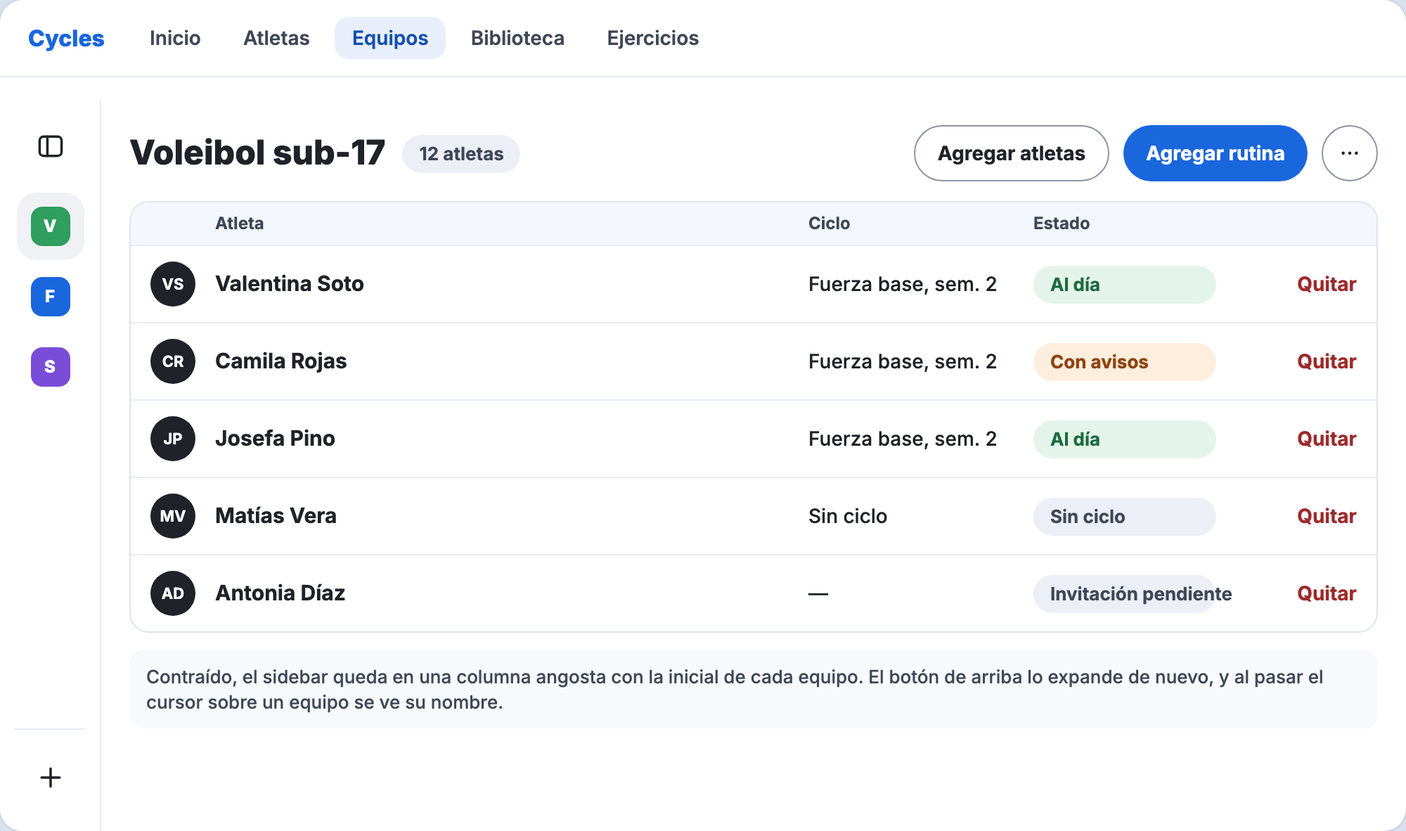
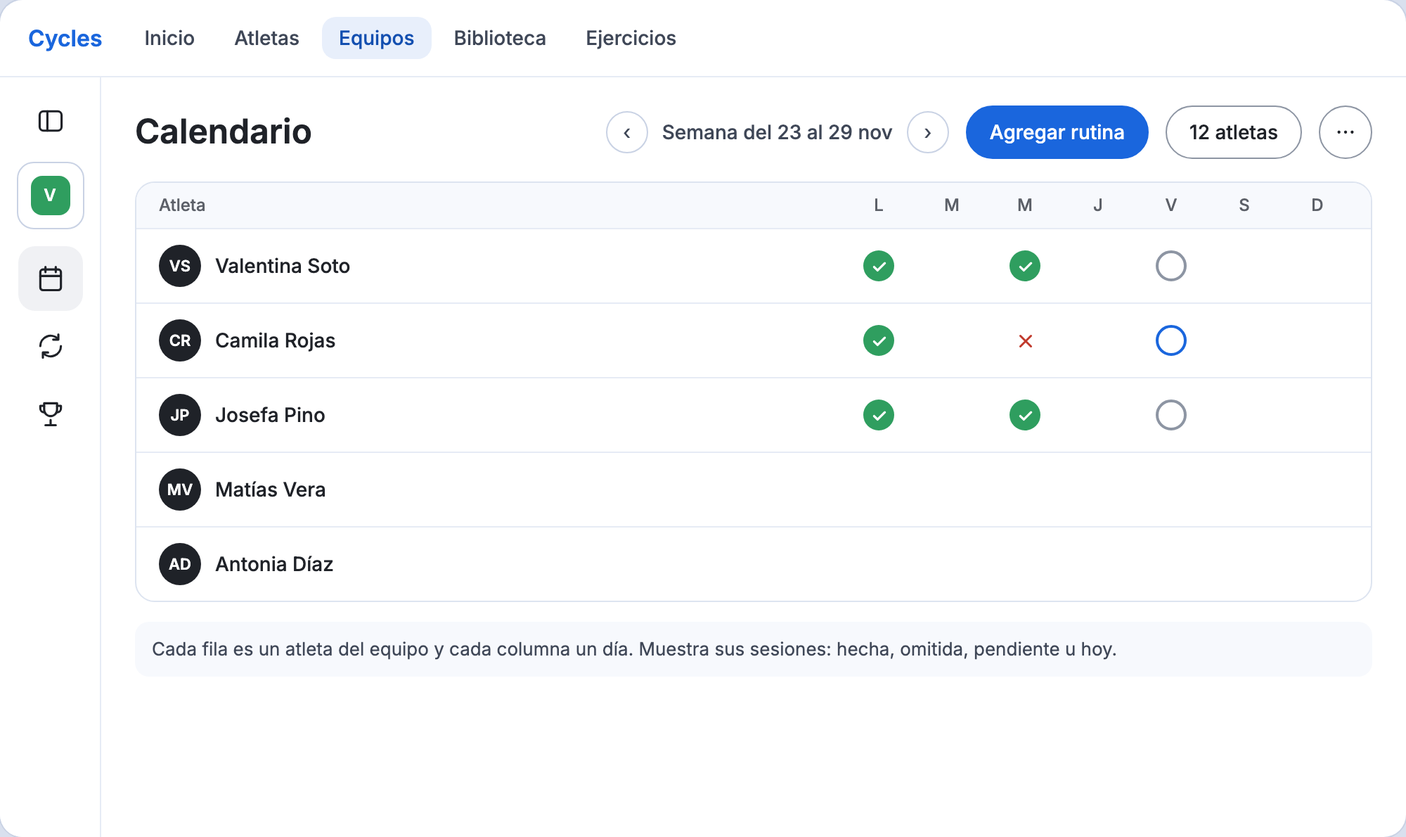
Equipos con selector de equipo y herramientas Calendario, Ciclos y Rankings (CYC-316)

diff --git a/docs/diseno/equipos-sidebar/propuestas.html b/docs/diseno/equipos-sidebar/propuestas.html
@@ -358,42 +358,88 @@ body{font-family:Inter,-apple-system,system-ui,sans-serif;background:#d9e0ee;col
 .bn.sec{margin:0}
 .ph1 .bn,.ph1 .bn.sec{margin-top:0;margin-bottom:0}
 
-/* ===== CYC-316: Equipos con sidebar ===== */
-.web.sbw{padding-bottom:0;overflow:hidden}
-.s2sh{display:grid;grid-template-columns:var(--sbw,260px) 1fr;margin:0 -20px;min-height:520px}
-.s2sb{border-right:1px solid #e6ebf5;padding:14px 12px;display:flex;flex-direction:column;gap:10px;background:#fff}
-.s2sb .s2top{display:flex;align-items:center;gap:8px;padding:2px 6px 6px}
-.s2sb .s2ttl{font:800 18px/1 Inter;margin-right:auto}
-.s2sb .s2tg{width:34px;height:34px;display:grid;place-items:center;border-radius:10px}
-.s2sb .s2tg svg{width:22px;height:22px;stroke:#1f2228;fill:none;stroke-width:1.9;stroke-linecap:round;stroke-linejoin:round}
-.s2sb .s2it{display:flex;align-items:center;gap:12px;border-radius:14px;padding:10px 12px;font:600 15px/1.2 Inter;color:#3f4757;white-space:nowrap}
-.s2sb .s2it i{width:28px;height:28px;border-radius:8px;display:grid;place-items:center;color:#fff;font:800 12px/1 Inter;font-style:normal;flex:none}
-.s2sb .s2it span{flex:1;min-width:0;overflow:hidden;text-overflow:ellipsis}
-.s2sb .s2it em{font:600 13px/1 Inter;font-style:normal;color:#8d95a3}
-.s2sb .s2it.on{background:#f0f1f4;color:#1f2228;font-weight:700}
-.s2sb .s2it.add{color:#1f2228}
-.s2sb .s2it.add b{width:28px;height:28px;display:grid;place-items:center;flex:none}
-.s2sb .s2it.add svg{width:22px;height:22px;stroke:#1f2228;fill:none;stroke-width:1.9;stroke-linecap:round}
-.s2sb .s2list{display:grid;gap:2px;align-content:start;flex:1}
-.s2sb .s2foot{border-top:1px solid #e6ebf5;padding-top:10px}
-.s2sb .s2none{font:500 14px/1.45 Inter;color:#3f4757;padding:4px 12px}
-.s2sb.s2col{padding:14px 10px;align-items:center}
-.s2sb.s2col .s2top{padding:2px 0 6px;justify-content:center}
-.s2sb.s2col .s2it{padding:10px;gap:0;justify-content:center}
-.s2sb.s2col .s2list{justify-items:center}
-.s2sb.s2col .s2foot{width:100%;display:grid;justify-items:center}
-.s2mn{padding:18px 20px 22px;min-width:0;position:relative}
-.s2mn .ph1 h2{font:800 24px/1.1 Inter}
-.s2scrim{position:absolute;inset:0;background:rgba(31,34,40,.38);display:grid;place-items:center;z-index:6}
-.s2dlg{background:#fff;border-radius:18px;box-shadow:0 10px 40px rgba(31,34,40,.3);width:440px;padding:18px 20px}
-.s2dlg .wt{margin-bottom:8px}
-.s2sel{display:flex;align-items:center;gap:10px;height:46px;border-radius:12px;border:1.5px solid #8d95a3;padding:0 12px;font:700 15px/1 Inter}
-.s2sel i{width:28px;height:28px;border-radius:8px;display:grid;place-items:center;color:#fff;font:800 12px/1 Inter;font-style:normal}
-.s2sel svg{margin-left:auto;width:18px;height:18px;stroke:#3f4757;fill:none;stroke-width:2.2;stroke-linecap:round;stroke-linejoin:round}
-.s2drw{position:absolute;left:0;right:0;top:112px;background:#fff;border-radius:14px;box-shadow:0 8px 28px rgba(31,34,40,.25);padding:8px;z-index:5}
-.web.ph{width:390px;padding:0}
-.s2mn .bn{white-space:nowrap}
-.s2mn .ph1 h2{white-space:nowrap}
+/* ===== CYC-316 v3: sidebar con selector y herramientas, tipografía liviana ===== */
+.web.t3{padding:0;overflow:hidden;font-weight:400}
+.t3nav{display:flex;align-items:center;gap:4px;border-bottom:1px solid #e6ebf5;padding:12px 20px}
+.t3nav b{font:600 16px/1 Inter;color:#1a66dd;margin-right:14px}
+.t3nav span{font:500 14px/1 Inter;color:#3f4757;padding:8px 12px;border-radius:10px}
+.t3nav span.on{background:#e8effb;color:#134fb0}
+.t3sh{display:grid;grid-template-columns:var(--sbw,250px) 1fr;min-height:540px}
+.t3sb{border-right:1px solid #e6ebf5;padding:14px 12px;display:flex;flex-direction:column;gap:12px;background:#fff;position:relative}
+.t3tg{display:flex;justify-content:flex-end;padding:0 4px}
+.t3tg b{width:34px;height:34px;display:grid;place-items:center;border-radius:10px}
+.t3tg svg,.t3ic svg{width:22px;height:22px;stroke:#1f2228;fill:none;stroke-width:1.7;stroke-linecap:round;stroke-linejoin:round}
+.t3sel{display:flex;align-items:center;gap:10px;height:48px;border-radius:12px;border:1px solid #c9d2e4;padding:0 12px;font:500 15px/1 Inter;color:#1f2228;background:#fff}
+.t3sel i{width:28px;height:28px;border-radius:8px;display:grid;place-items:center;color:#fff;font:600 12px/1 Inter;font-style:normal;flex:none}
+.t3sel span{flex:1;min-width:0;overflow:hidden;text-overflow:ellipsis;white-space:nowrap}
+.t3sel svg{width:18px;height:18px;stroke:#3f4757;fill:none;stroke-width:2;stroke-linecap:round;stroke-linejoin:round;flex:none}
+.t3tools{display:grid;gap:2px}
+.t3tool{display:flex;align-items:center;gap:12px;border-radius:12px;padding:11px 12px;font:500 15px/1.2 Inter;color:#3f4757}
+.t3tool.on{background:#f0f1f4;color:#1f2228}
+.t3tool .t3ic{display:grid;place-items:center;width:24px;height:24px;flex:none}
+.t3lab{font:500 12px/1 Inter;color:#8d95a3;padding:4px 12px 0;letter-spacing:.04em;text-transform:uppercase}
+.t3sb.col{padding:14px 10px;align-items:center}
+.t3sb.col .t3tg{justify-content:center;padding:0}
+.t3sb.col .t3sel{width:48px;padding:0;justify-content:center;gap:0}
+.t3sb.col .t3tool{padding:11px;justify-content:center}
+.t3sb.col .t3tools{justify-items:center}
+.t3dd{position:absolute;left:12px;right:12px;top:112px;background:#fff;border-radius:14px;box-shadow:0 8px 28px rgba(31,34,40,.22);padding:6px;z-index:5}
+.t3dd .o{display:flex;align-items:center;gap:10px;border-radius:10px;padding:9px 10px;font:500 15px/1.2 Inter;color:#1f2228}
+.t3dd .o i{width:26px;height:26px;border-radius:8px;display:grid;place-items:center;color:#fff;font:600 11px/1 Inter;font-style:normal;flex:none}
+.t3dd .o span{flex:1}
+.t3dd .o em{font:400 13px/1 Inter;font-style:normal;color:#8d95a3}
+.t3dd .o.on{background:#f0f1f4}
+.t3dd .sep{border-top:1px solid #e6ebf5;margin:6px 0 2px}
+.t3dd .o.add svg{width:20px;height:20px;stroke:#1f2228;fill:none;stroke-width:1.8;stroke-linecap:round}
+.t3mn{padding:20px 24px 26px;min-width:0;position:relative}
+.t3hd{display:flex;align-items:center;gap:12px;margin-bottom:16px}
+.t3hd h2{font:600 24px/1.1 Inter;margin-right:auto}
+.t3btn{display:inline-flex;align-items:center;gap:6px;height:38px;border-radius:999px;padding:0 16px;font:500 14px/1 Inter;border:1px solid #8d95a3;color:#1f2228;background:#fff;white-space:nowrap}
+.t3btn.pr{background:#1a66dd;border-color:#1a66dd;color:#fff}
+.t3btn.sq{padding:0;width:38px;justify-content:center}
+.t3wk{display:flex;align-items:center;gap:10px;font:500 14px/1 Inter;color:#3f4757}
+.t3wk b{width:30px;height:30px;border-radius:50%;border:1px solid #c9d2e4;display:grid;place-items:center;font-weight:400}
+.t3tb{border:1px solid #dde4f0;border-radius:14px;overflow:hidden}
+.t3r{display:grid;gap:8px;align-items:center;padding:11px 16px;border-top:1px solid #e6ebf5;font:400 14px/1.2 Inter}
+.t3r:first-child{border-top:0}
+.t3r.h{background:#f7f9fd;font:500 12px/1 Inter;color:#5c6068;padding:10px 16px}
+.t3r .nm{display:flex;align-items:center;gap:10px;font:500 14px/1.2 Inter}
+.t3r .nm .av{width:30px;height:30px;font-size:11px;font-weight:600}
+.t3cal{grid-template-columns:minmax(150px,1fr) repeat(7,44px)}
+.t3cal .d{text-align:center}
+.mk{width:22px;height:22px;border-radius:50%;margin:0 auto;display:grid;place-items:center}
+.mk.ok{background:#2f9e5f}
+.mk.ok svg{width:13px;height:13px;stroke:#fff;fill:none;stroke-width:3;stroke-linecap:round;stroke-linejoin:round}
+.mk.pe{border:2px solid #8d95a3}
+.mk.sk svg{width:15px;height:15px;stroke:#c0392b;fill:none;stroke-width:2.4;stroke-linecap:round}
+.mk.td{border:2px solid #1a66dd}
+.t3cyc{grid-template-columns:minmax(150px,1fr) 190px 90px 170px}
+.pg{height:6px;border-radius:3px;background:#e6ebf5;overflow:hidden}
+.pg i{display:block;height:100%;background:#1a66dd}
+.t3rk{grid-template-columns:32px minmax(150px,1fr) 1fr 56px}
+.t3rk .n{font:500 14px/1 Inter;color:#5c6068;text-align:center}
+.t3rk .pc{font:500 14px/1 Inter;text-align:right}
+.t3seg{display:flex;border:1px solid #c9d2e4;border-radius:10px;overflow:hidden;width:fit-content}
+.t3seg span{padding:8px 14px;font:500 13px/1 Inter;color:#3f4757}
+.t3seg span.on{background:#f0f1f4;color:#1f2228}
+.t3note{margin-top:14px;font:400 13px/1.45 Inter;color:#3f4757;background:#f7f9fd;border-radius:10px;padding:10px 12px}
+.t3scrim{position:absolute;inset:0;background:rgba(31,34,40,.38);display:grid;place-items:center;z-index:6}
+.t3dlg{background:#fff;border-radius:18px;box-shadow:0 10px 40px rgba(31,34,40,.3);width:520px;padding:20px 22px}
+.t3dlg h3{font:600 20px/1.2 Inter;margin-bottom:12px}
+.t3mem{display:grid;grid-template-columns:34px 1fr auto auto;gap:10px;align-items:center;padding:9px 0;border-top:1px solid #e6ebf5;font:400 14px/1.2 Inter}
+.t3mem:first-of-type{border-top:0}
+.t3mem .av{width:30px;height:30px;font-size:11px;font-weight:600}
+.t3mem u{color:#9d2a2a;font:500 14px/1 Inter;text-decoration:none}
+.t3emp{text-align:center;padding:60px 20px;border-radius:16px;background:#f7f9fd}
+.t3emp h3{font:600 22px/1.2 Inter;margin-bottom:8px}
+.t3emp p{font:400 15px/1.45 Inter;color:#3f4757;max-width:420px;margin:0 auto 18px}
+.t3ph{width:390px}
+.t3ph .t3sel{margin:14px 16px 0}
+.t3tabs{display:flex;gap:6px;padding:12px 16px 0;overflow:hidden}
+.t3tabs span{display:flex;align-items:center;gap:6px;border-radius:999px;padding:9px 14px;font:500 14px/1 Inter;color:#3f4757;background:#f3f5fa;white-space:nowrap}
+.t3tabs span.on{background:#1f2228;color:#fff}
+.t3tabs svg{width:16px;height:16px;stroke:currentColor;fill:none;stroke-width:1.8;stroke-linecap:round;stroke-linejoin:round}
+.t3dd .o span{white-space:nowrap;overflow:hidden;text-overflow:ellipsis;min-width:0}
 
 </style>
 </head>
@@ -431,54 +477,78 @@ const ppl=[['VS','Valentina Soto'],['CR','Camila Rojas'],['JP','Josefa Pino'],['
 const stack=(n,total)=>`<div class="stk">${ppl.slice(0,n).map(p=>AVb(p[0])).join('')}${total>n?`<div class="more">+${total-n}</div>`:''}</div>`;
 const tcard=(i,c,n,k,st)=>`<div class="tc"><div class="t"><i style="background:${c}">${i}</i><b>${n}</b><em>${k}</em></div>${st}</div>`;
 const cbx=(on)=>`<i class="cbx ${on?'on':''}">${on?chk:''}</i>`;
-const TEAMS=[['V','#2f9e5f','Voleibol sub-17',12],['F','#1a66dd','Fuerza mañana',5],['S','#7a4dd8','Selección regional',8],['B','#d9822b','Básquetbol femenino',10],['A','#c2467a','Atletismo velocidad',6],['N','#2a8f9d','Natación máster',9],['R','#6b7280','Rugby juvenil',15],['T','#4f7fd1','Tenis competitivo',4],['G','#8a5a2b','Gimnasio general',7]];
-const plus=`<svg viewBox="0 0 24 24"><path d="M12 5v14M5 12h14"/></svg>`;
-const panel=`<svg viewBox="0 0 24 24"><rect x="3.5" y="4.5" width="17" height="15" rx="3"/><path d="M9.5 4.5v15"/></svg>`;
-const item=(t,on,col)=>`<div class="s2it ${on?'on':''}" title="${t[2]}"><i style="background:${t[1]}">${t[0]}</i>${col?'':`<span>${t[2]}</span><em>${t[3]}</em>`}</div>`;
-const addIt=(col)=>`<div class="s2it add"><b>${plus}</b>${col?'':'<span>Crear equipo</span>'}</div>`;
-const sidebar=(n,on,{col=false}={})=>`<aside class="s2sb ${col?'s2col':''}"><div class="s2top">${col?'':'<span class="s2ttl">Equipos</span>'}<span class="s2tg">${panel}</span></div><div class="s2list">${TEAMS.slice(0,n).map((t,i)=>item(t,i===on,col)).join('')}</div><div class="s2foot">${addIt(col)}</div></aside>`;
-const sbEmpty=`<aside class="s2sb"><div class="s2top"><span class="s2ttl">Equipos</span><span class="s2tg">${panel}</span></div><div class="s2list"><div class="s2none">Aún no tienes equipos.</div></div><div class="s2foot">${addIt(false)}</div></aside>`;
-const mrow=(a,n,c,s,cl)=>`<div class="mt">${AVb(a)}<b>${n}</b><span>${c}</span><span class="chip ${cl}">${s}</span><u>Quitar</u></div>`;
-const detMain=(extra='')=>`<main class="s2mn"><div class="ph1"><h2>Voleibol sub-17</h2><span class="chip gr">12 atletas</span><div style="margin-left:auto;display:flex;gap:10px;align-items:center"><span class="bn sec" style="height:40px">Agregar atletas</span><span class="bn" style="height:40px">Agregar rutina</span><span class="bn sec" style="height:40px;padding:0 12px">⋯</span></div></div>
- <div class="tbl"><div class="mt h"><span></span><span>Atleta</span><span>Ciclo</span><span>Estado</span><span></span></div>
- ${mrow('VS','Valentina Soto','Fuerza base, sem. 2','Al día','ok')}${mrow('CR','Camila Rojas','Fuerza base, sem. 2','Con avisos','sk')}${mrow('JP','Josefa Pino','Fuerza base, sem. 2','Al día','ok')}${mrow('MV','Matías Vera','Sin ciclo','Sin ciclo','gr')}${mrow('AD','Antonia Díaz','—','Invitación pendiente','gr')}</div>${extra}</main>`;
-const shell=(side,main,navOn='Equipos',w=260)=>`<div class="web sbw">${NAV(navOn)}<div class="s2sh" style="--sbw:${w}px">${side}${main}</div></div>`;
-function conEquipos(){
- return shell(sidebar(3,0),detMain(`<div class="wnote" style="margin-top:12px">Sidebar expandido: tus equipos, el elegido en gris, y «Crear equipo» al pie. El botón de arriba a la derecha lo contrae.</div>`));
+const TEAMS=[['V','#2f9e5f','Voleibol sub-17',12],['F','#1a66dd','Fuerza mañana',5],['S','#7a4dd8','Selección regional',8],['B','#d9822b','Básquetbol femenino',10]];
+const SV=(p)=>`<svg viewBox="0 0 24 24">${p}</svg>`;
+const IC={
+ panel:SV('<rect x="3.5" y="4.5" width="17" height="15" rx="3"/><path d="M9.5 4.5v15"/>'),
+ cal:SV('<path d="M4 7a2 2 0 0 1 2-2h12a2 2 0 0 1 2 2v12a2 2 0 0 1-2 2H6a2 2 0 0 1-2-2z"/><path d="M4 10h16M8 3v4M16 3v4"/>'),
+ cyc:SV('<path d="M20 12a8 8 0 0 1-13.7 5.6M4 12a8 8 0 0 1 13.7-5.6"/><path d="M18 3v4h-4M6 21v-4h4"/>'),
+ rk:SV('<path d="M8 21h8M12 17v4M7 4h10v5a5 5 0 0 1-10 0z"/><path d="M7 6H4v2a3 3 0 0 0 3 3M17 6h3v2a3 3 0 0 1-3 3"/>'),
+ chev:SV('<path d="m6 9 6 6 6-6"/>'),
+ plus:SV('<path d="M12 5v14M5 12h14"/>'),
+ chk:SV('<path d="m5 12.5 4.5 4.5L19 7.5"/>'),
+ x:SV('<path d="M6 6l12 12M18 6 6 18"/>')
+};
+const T3NAV=`<div class="t3nav"><b>Cycles</b>${['Inicio','Atletas','Equipos','Biblioteca','Ejercicios'].map(n=>`<span class="${n==='Equipos'?'on':''}">${n}</span>`).join('')}</div>`;
+const TOOLS=[['Calendario','cal'],['Ciclos','cyc'],['Rankings','rk']];
+const selBox=(t,col)=>`<div class="t3sel"><i style="background:${t[1]}">${t[0]}</i>${col?'':`<span>${t[2]}</span>${IC.chev}`}</div>`;
+const tools=(on,col)=>`<div class="t3tools">${TOOLS.map(x=>`<div class="t3tool ${x[0]===on?'on':''}" title="${x[0]}"><span class="t3ic">${IC[x[1]]}</span>${col?'':x[0]}</div>`).join('')}</div>`;
+const side=(on,{col=false,t=TEAMS[0],dd=''}={})=>`<aside class="t3sb ${col?'col':''}"><div class="t3tg"><b>${IC.panel}</b></div>${selBox(t,col)}${col?'':'<div class="t3lab">Herramientas</div>'}${tools(on,col)}${dd}</aside>`;
+const ddOpen=`<div class="t3dd">${TEAMS.map((t,i)=>`<div class="o ${i===0?'on':''}"><i style="background:${t[1]}">${t[0]}</i><span>${t[2]}</span><em>${t[3]}</em></div>`).join('')}<div class="sep"></div><div class="o add">${IC.plus}<span>Crear equipo</span></div></div>`;
+const head=(title,extra='')=>`<div class="t3hd"><h2>${title}</h2>${extra}<span class="t3btn">12 atletas</span><span class="t3btn sq">⋯</span></div>`;
+const ATH=[['VS','Valentina Soto'],['CR','Camila Rojas'],['JP','Josefa Pino'],['MV','Matías Vera'],['AD','Antonia Díaz']];
+const mk=(s)=>s==='ok'?`<div class="mk ok">${IC.chk}</div>`:s==='sk'?`<div class="mk sk">${IC.x}</div>`:s==='td'?`<div class="mk td"></div>`:s==='pe'?`<div class="mk pe"></div>`:'';
+const DAYS=['L','M','M','J','V','S','D'];
+const WEEK=[['ok','','ok','','pe','',''],['ok','','sk','','td','',''],['ok','','ok','','pe','',''],['','','','','','',''],['','','','','','','']];
+function calendario(){
+ return `<div class="t3mn">${head('Calendario',`<div class="t3wk"><b>‹</b>Semana del 23 al 29 nov<b>›</b></div><span class="t3btn pr">Agregar rutina</span>`)}
+ <div class="t3tb"><div class="t3r h t3cal"><span>Atleta</span>${DAYS.map(d=>`<span class="d">${d}</span>`).join('')}</div>
+ ${ATH.map((a,i)=>`<div class="t3r t3cal"><div class="nm">${AVb(a[0])}${a[1]}</div>${WEEK[i].map(s=>`<div>${mk(s)}</div>`).join('')}</div>`).join('')}</div>
+ <div class="t3note">Cada fila es un atleta del equipo y cada columna un día. Muestra sus sesiones: hecha, omitida, pendiente u hoy.</div></div>`;
 }
-function contraida(){
- return shell(sidebar(3,0,{col:true}),detMain(`<div class="wnote" style="margin-top:12px">Contraído, el sidebar queda en una columna angosta con la inicial de cada equipo. El botón de arriba lo expande de nuevo, y al pasar el cursor sobre un equipo se ve su nombre.</div>`),'Equipos',72);
+function ciclos(){
+ const r=(a,c,w,p)=>`<div class="t3r t3cyc"><div class="nm">${AVb(a[0])}${a[1]}</div><span>${c}</span><span>${w}</span>${p===null?'<span style="color:#8d95a3">—</span>':`<div class="pg"><i style="width:${p}%"></i></div>`}</div>`;
+ return `<div class="t3mn">${head('Ciclos',`<span class="t3btn pr">Agregar ciclo</span>`)}
+ <div class="t3tb"><div class="t3r h t3cyc"><span>Atleta</span><span>Ciclo</span><span>Semana</span><span>Avance</span></div>
+ ${r(ATH[0],'Fuerza base','2 de 6',33)}${r(ATH[1],'Fuerza base','2 de 6',33)}${r(ATH[2],'Fuerza base','2 de 6',30)}${r(ATH[3],'Sin ciclo','—',null)}${r(ATH[4],'Invitación pendiente','—',null)}</div>
+ <div class="t3note">El ciclo vigente de cada atleta del equipo. Al tocar una fila se abre el ciclo en la pizarra del atleta.</div></div>`;
 }
-function vacio2(){
- return shell(sbEmpty,`<main class="s2mn"><div class="ph1"><h2>Equipos</h2></div><div class="emp"><div class="ico"><svg viewBox="0 0 24 24"><circle cx="9" cy="8" r="3"/><circle cx="17" cy="9" r="2.5"/><path d="M3 19c0-3 3-5 6-5s6 2 6 5M15 15c3 0 6 1.5 6 4"/></svg></div><b>Crea tu primer equipo</b><p>Agrupa a tus atletas para darles la misma rutina a todos, cada uno con su propio peso.</p><span class="bn" style="height:44px;padding:0 24px">Crear equipo</span></div></main>`);
+function rankings(){
+ const r=(n,a,p)=>`<div class="t3r t3rk"><span class="n">${n}</span><div class="nm">${AVb(a[0])}${a[1]}</div><div class="pg"><i style="width:${p}%"></i></div><span class="pc">${p} %</span></div>`;
+ return `<div class="t3mn">${head('Rankings',`<div class="t3seg"><span class="on">Últimas 4 semanas</span><span>Este ciclo</span></div>`)}
+ <div class="t3tb"><div class="t3r h t3rk"><span class="n">#</span><span>Atleta</span><span>Sesiones completadas</span><span class="pc"></span></div>
+ ${r(1,ATH[2],96)}${r(2,ATH[0],88)}${r(3,ATH[1],71)}${r(4,ATH[3],40)}${r(5,ATH[4],0)}</div>
+ <div class="t3note">Ordena a los atletas por el porcentaje de sesiones completadas sobre las asignadas en el período.</div></div>`;
 }
-function muchos(){
- return shell(sidebar(9,2),`<main class="s2mn"><div class="ph1"><h2>Selección regional</h2><span class="chip gr">8 atletas</span><div style="margin-left:auto;display:flex;gap:10px"><span class="bn sec" style="height:40px">Agregar atletas</span><span class="bn" style="height:40px">Agregar rutina</span><span class="bn sec" style="height:40px;padding:0 12px">⋯</span></div></div>
- <div class="tbl"><div class="mt h"><span></span><span>Atleta</span><span>Ciclo</span><span>Estado</span><span></span></div>${mrow('FG','Fernanda Gil','Fuerza base, sem. 2','Al día','ok')}${mrow('IM','Isidora Mena','Fuerza base, sem. 2','Al día','ok')}${mrow('TL','Tomás León','Sin ciclo','Sin ciclo','gr')}</div>
- <div class="wnote" style="margin-top:12px">Con muchos equipos la lista del sidebar se desplaza sola. El equipo abierto se mantiene visible y «Crear equipo» queda fijo abajo.</div></main>`);
+const frame=(sideH,main,w=250,over='')=>`<div class="web t3">${T3NAV}<div class="t3sh" style="--sbw:${w}px">${sideH}${main}</div>${over}</div>`;
+function f1(){return frame(side('Calendario'),calendario());}
+function f2(){return frame(side('Calendario',{col:true}),calendario(),72);}
+function f3(){return frame(side('Calendario',{dd:ddOpen}),calendario());}
+function f4(){return frame(side('Ciclos'),ciclos());}
+function f5(){return frame(side('Rankings'),rankings());}
+function f6(){
+ const m=(a,c)=>`<div class="t3mem">${AVb(a[0])}<span>${a[1]}</span><span class="chip ${c[1]}">${c[0]}</span><u>Quitar</u></div>`;
+ const over=`<div class="t3scrim"><div class="t3dlg"><h3>Atletas de Voleibol sub-17</h3>${m(ATH[0],['Al día','ok'])}${m(ATH[1],['Con avisos','sk'])}${m(ATH[2],['Al día','ok'])}${m(ATH[3],['Sin ciclo','gr'])}${m(ATH[4],['Invitación pendiente','gr'])}<div style="display:flex;gap:10px;margin-top:16px"><span class="t3btn pr">Agregar atletas</span><span class="t3btn">Cerrar</span></div></div></div>`;
+ return frame(side('Calendario'),calendario(),250,over);
 }
-function crearSb(){
- const row=(n,a,sel)=>`<div class="r ${sel?'sel':''}">${cbx(sel)}${AVb(a)}<span>${n}</span></div>`;
- return `<div class="web sbw">${NAV('Equipos')}<div class="s2sh">${sidebar(3,0)}${detMain()}<div class="s2scrim"><div class="s2dlg"><div class="wt">Crear equipo</div><div class="fld"><b>Nombre del equipo</b>${inp('Básquetbol femenino','100%')}</div><div class="cnt">2 elegidos</div><div class="pk">${row('Valentina Soto','VS',1)}${row('Camila Rojas','CR',1)}${row('Josefa Pino','JP',0)}</div><div style="display:flex;gap:10px;margin-top:14px"><span class="bn" style="height:44px;padding:0 22px">Crear equipo</span><span class="bn sec" style="height:44px;padding:0 22px">Cancelar</span></div></div></div></div></div>`;
+function f7(){
+ const side0=`<aside class="t3sb"><div class="t3tg"><b>${IC.panel}</b></div><div class="t3sel"><span style="color:#8d95a3">Sin equipos</span>${IC.chev}</div><div class="t3lab">Herramientas</div><div class="t3tools" style="opacity:.45">${TOOLS.map(x=>`<div class="t3tool"><span class="t3ic">${IC[x[1]]}</span>${x[0]}</div>`).join('')}</div></aside>`;
+ return frame(side0,`<div class="t3mn"><div class="t3hd"><h2>Equipos</h2></div><div class="t3emp"><h3>Crea tu primer equipo</h3><p>Agrupa a tus atletas para darles la misma rutina a todos, cada uno con su propio peso.</p><span class="t3btn pr" style="height:44px;padding:0 22px">Crear equipo</span></div></div>`);
 }
-function nuevoSinAtletas(){
- const t=['B','#d9822b','Básquetbol femenino',0];
- return shell(`<aside class="s2sb"><div class="s2top"><span class="s2ttl">Equipos</span><span class="s2tg">${panel}</span></div><div class="s2list">${[TEAMS[0],TEAMS[1],TEAMS[2],t].map((x,i)=>item(x,i===3)).join('')}</div><div class="s2foot">${addIt(false)}</div></aside>`,`<main class="s2mn"><div class="ph1"><h2>Básquetbol femenino</h2><span class="chip gr">0 atletas</span><div style="margin-left:auto;display:flex;gap:10px"><span class="bn sec" style="height:40px;padding:0 12px">⋯</span></div></div>
- <div class="emp"><b>Este equipo aún no tiene atletas</b><p>Agrega a los que ya tienes para darles la misma rutina.</p><span class="bn" style="height:44px;padding:0 24px">Agregar atletas</span></div></main>`);
-}
-function angosto(open){
- const head=`<div style="padding:14px 16px;border-bottom:1px solid #e6ebf5;display:flex;align-items:center;gap:10px"><b style="font:800 16px/1 Inter;color:#1a66dd">Cycles</b><span style="margin-left:auto;font:700 14px/1 Inter;color:#134fb0">Equipos</span></div>`;
- const sel=`<div style="padding:14px 16px 0"><div class="s2sel"><i style="background:#2f9e5f">V</i>Voleibol sub-17<svg viewBox="0 0 24 24"><path d="m6 9 6 6 6-6"/></svg></div></div>`;
- const body=`<div style="padding:14px 16px 20px"><div style="display:flex;align-items:center;gap:8px;margin-bottom:10px"><h2 style="font:800 22px/1.1 Inter">Voleibol sub-17</h2><span class="chip gr">12</span></div><div style="display:flex;gap:8px;margin-bottom:12px"><span class="bn" style="height:40px;flex:1">Agregar rutina</span><span class="bn sec" style="height:40px;padding:0 12px">⋯</span></div><div class="tbl">${[['VS','Valentina Soto','Al día','ok'],['CR','Camila Rojas','Con avisos','sk'],['JP','Josefa Pino','Al día','ok']].map(r=>`<div style="display:flex;align-items:center;gap:10px;padding:10px 12px;border-top:1px solid #e6ebf5">${AVb(r[0])}<b style="font:700 14px/1.2 Inter;flex:1">${r[1]}</b><span class="chip ${r[3]}">${r[2]}</span></div>`).join('')}</div></div>`;
- const dr=open?`<div class="s2drw" style="top:122px;left:16px;right:16px"><span class="s2new" style="display:flex;align-items:center;justify-content:center;gap:8px;height:40px;border-radius:999px;background:#1a66dd;color:#fff;font:700 14px/1 Inter;margin-bottom:8px">Crear equipo</span><div class="s2sb" style="border:0;padding:0;background:#fff"><div class="s2list">${TEAMS.slice(0,4).map((t,i)=>item(t,i===0)).join('')}</div></div></div>`:'';
- return `<div class="web ph" style="min-height:460px;overflow:hidden">${head}${sel}${body}${dr}</div>`;
+function f8(open){
+ const nav=`<div style="padding:14px 16px;border-bottom:1px solid #e6ebf5;display:flex;align-items:center"><b style="font:600 16px/1 Inter;color:#1a66dd">Cycles</b><span style="margin-left:auto;font:500 14px/1 Inter;color:#134fb0">Equipos</span></div>`;
+ const tabs=`<div class="t3tabs">${TOOLS.map((x,i)=>`<span class="${i===0?'on':''}">${IC[x[1]]}${x[0]}</span>`).join('')}</div>`;
+ const body=`<div style="padding:16px"><div style="display:flex;align-items:center;gap:8px;margin-bottom:12px"><h2 style="font:600 20px/1.1 Inter;margin-right:auto">Calendario</h2><span class="t3btn">12</span></div><div class="t3tb">${ATH.slice(0,4).map((a,i)=>`<div style="display:flex;align-items:center;gap:10px;padding:10px 12px;border-top:${i?'1px solid #e6ebf5':'0'}">${AVb(a[0])}<span style="font:500 14px/1.2 Inter;flex:1">${a[1]}</span><div style="display:flex;gap:4px">${WEEK[i].slice(0,5).map(s=>mk(s)||'<div class="mk" style="border:1px dashed #dde4f0"></div>').map(h=>`<div style="width:22px">${h}</div>`).join('')}</div></div>`).join('')}</div></div>`;
+ const dd=open?`<div class="t3dd" style="top:70px;left:16px;right:16px">${TEAMS.map((t,i)=>`<div class="o ${i===0?'on':''}"><i style="background:${t[1]}">${t[0]}</i><span>${t[2]}</span><em>${t[3]}</em></div>`).join('')}<div class="sep"></div><div class="o add">${IC.plus}<span>Crear equipo</span></div></div>`:'';
+ return `<div class="web t3 t3ph" style="min-height:520px;position:relative">${nav}${selBox(TEAMS[0])}${tabs}${body}${dd}</div>`;
 }
 const out=document.getElementById('out');
 const add=(id,label,items)=>out.insertAdjacentHTML('beforeend',`<div class="lab">${label}</div><div class="row" id="${id}">${items.map(([c,h])=>`<div class="fr">${h}<div class="cap">${c}</div></div>`).join('')}</div>`);
-add('r1','1 · Sidebar expandido y contraído',[['Expandido: nombre y cantidad de atletas de cada equipo',conEquipos()],['Contraído: solo la inicial de cada equipo',contraida()]]);
-add('r2','2 · Otros estados',[['Sin equipos: el sidebar solo trae «Crear equipo»',vacio2()],['Con muchos equipos: la lista se desplaza',muchos()],['Equipo recién creado, sin atletas',nuevoSinAtletas()]]);
-add('r3','3 · Crear equipo desde el sidebar',[['Crear equipo: el mismo cuadro de CYC-308, sobre la pantalla con sidebar',crearSb()]]);
-add('r4','4 · Pantalla angosta (web en celular o ventana pequeña)',[['El sidebar se pliega en un selector de equipo',angosto(false)],['Selector abierto: lista de equipos y «Crear equipo»',angosto(true)]]);
+add('r1','1 · Sidebar expandido y contraído',[['Expandido: selector de equipo arriba y las herramientas debajo',f1()],['Contraído: la inicial del equipo y los íconos de las herramientas',f2()]]);
+add('r2','2 · Selector de equipo',[['Selector abierto: cambia de equipo o crea uno',f3()],['Sin equipos',f7()]]);
+add('r3','3 · Herramientas (Calendario es la vista de arriba)',[['Ciclos: el ciclo vigente de cada atleta',f4()],['Rankings: sesiones completadas por atleta',f5()]]);
+add('r4','4 · Atletas del equipo',[['Se abre desde el botón «12 atletas»: agregar y quitar',f6()]]);
+add('r5','5 · Pantalla angosta',[['Selector arriba y las herramientas como pestañas',f8(false)],['Selector abierto',f8(true)]]);
 
 </script>
 </body>

diff --git a/docs/diseno/equipos-sidebar/README.md b/docs/diseno/equipos-sidebar/README.md
@@ -1,36 +1,48 @@
 # Equipos con sidebar (CYC-316)
 
-Rediseño de la pestaña Equipos (CYC-308): la navegación dentro de la pestaña pasa a un sidebar. Maquetas en [propuestas.html](propuestas.html) y capturas en `capturas/`.
+Rediseño de la pestaña Equipos (CYC-308): la navegación dentro de la pestaña pasa a un sidebar con un selector de equipo y tres herramientas. Maquetas en [propuestas.html](propuestas.html) y capturas en `capturas/`.
+
+## Lo que pidió la usuaria
+
+- Un sidebar simple, expandido y contraído (como el ejemplo que compartió).
+- Un **selector desplegable** para elegir el equipo con el que se trabaja, y no un campo por equipo.
+- Debajo, las herramientas del equipo: **Calendario, Ciclos y Rankings**.
+- Sin negritas pesadas.
 
 ## Qué cambia respecto de CYC-308
 
 | Antes (CYC-308) | Ahora |
 |---|---|
-| Pantalla de lista con tarjetas y pantalla de detalle aparte (`/equipos` y `/equipos/:id`) | Una sola pantalla: sidebar a la izquierda y detalle del equipo elegido a la derecha |
-| «Crear equipo» en el encabezado de la lista | «Crear equipo» al pie del sidebar; el cuadro de creación es el mismo |
-| Botón «Agregar rutina al equipo» | «Agregar rutina» (el equipo ya está elegido en el sidebar) |
-| Botón «‹ Equipos» para volver a la lista | Ya no hace falta |
+| Lista de tarjetas de equipos y detalle aparte | Selector de equipo en el sidebar; no hay pantalla de lista |
+| Detalle con la tabla de atletas | Tres herramientas: Calendario, Ciclos y Rankings |
+| «Agregar atletas», «Quitar», Renombrar y Eliminar en el detalle | Salen del botón «12 atletas» y del menú ⋯ del encabezado |
+| «Crear equipo» en la lista | «Crear equipo» al pie del selector desplegable |
+| Textos en negrita pesada | Peso normal y medio en el sidebar, los títulos y las tablas |
 
-Todo lo demás del diseño aprobado se mantiene: cuadros de crear, agregar atletas, renombrar y eliminar, estados de los atletas y modelo de datos (`Team` y `TeamMember`). No hay cambio de modelo.
+El modelo de datos (`Team` y `TeamMember`) y los cuadros de crear, agregar, renombrar y eliminar no cambian.
 
 ## Decisiones del diseño
 
-1. **Sidebar simple**, como el ejemplo de la usuaria: encabezado «Equipos» con el botón que lo contrae, la lista de equipos (inicial con color, nombre y cantidad de atletas), el elegido en gris, y «Crear equipo» fijo al pie.
-2. **Expandido y contraído.** Contraído es una columna angosta con la inicial de cada equipo, el botón de expandir arriba y «+» al pie; el nombre se ve al pasar el cursor. Se recuerda la última elección.
-3. **Al entrar a Equipos se abre el primer equipo.** Sin equipos, el sidebar solo trae «Crear equipo» y el área principal muestra el estado vacío.
-4. **Con muchos equipos** la lista se desplaza y «Crear equipo» queda fijo abajo.
-5. **Equipo recién creado**: queda elegido y, sin atletas, muestra «Agregar atletas».
-6. **Pantalla angosta**: el sidebar se pliega en un selector con el equipo actual.
-7. **La barra superior no cambia**: Equipos sigue siendo una pestaña más.
+1. **Sidebar** con, de arriba abajo: botón para contraer, selector del equipo (inicial con color, nombre y una flecha) y la lista «Herramientas» con ícono y nombre. La herramienta activa va en gris.
+2. **Selector desplegable**: lista los equipos con su cantidad de atletas, el actual en gris, y «Crear equipo» al final.
+3. **Contraído**: columna angosta con la inicial del equipo y los tres íconos; el nombre se ve al pasar el cursor.
+4. **Calendario** (vista inicial): la semana de cada atleta del equipo, con una marca por día (hecha, omitida, pendiente, hoy), cambio de semana y «Agregar rutina».
+5. **Ciclos**: el ciclo vigente de cada atleta, la semana en que va y su avance; «Agregar ciclo».
+6. **Rankings**: atletas ordenados por el porcentaje de sesiones completadas sobre las asignadas, con selector de período (últimas 4 semanas o este ciclo).
+7. **Atletas del equipo**: el botón «12 atletas» abre un cuadro con la lista, «Quitar» y «Agregar atletas». El menú ⋯ trae Renombrar y Eliminar equipo.
+8. **Sin equipos**: el selector dice «Sin equipos», las herramientas aparecen apagadas y el centro invita a crear el primero.
+9. **Pantalla angosta**: el selector queda arriba y las herramientas pasan a pestañas.
 
 ## Para Desarrollo general
 
-- Rutas: `/equipos` abre el primer equipo (o el estado vacío) y `/equipos/:id` el equipo elegido; el sidebar se arma con `GET /teams`, que ya trae nombre y cantidad.
-- Afecta al PR #269 (CYC-310): `TeamsPage` pasa a ser el contenedor con el sidebar y `TeamDetailPage` su contenido. Los cuadros de crear, agregar, renombrar y eliminar no cambian.
-- Sin cambios de API ni de base de datos.
+- Rutas: `/equipos` abre el primer equipo en Calendario; `/equipos/:id/calendario`, `/ciclos` y `/rankings` para cada herramienta.
+- Afecta al PR #269 (CYC-310): `TeamsPage` y `TeamDetailPage` se reemplazan por un contenedor con el sidebar y las tres vistas.
+- Calendario reutiliza el cálculo de la semana de Atletas; Ciclos, el ciclo vigente que ya trae el detalle del equipo; Rankings usa el mismo dato de cumplimiento de la tarjeta del atleta (últimas 4 semanas), calculado por equipo.
+- Sin cambios de modelo. Rankings puede necesitar un endpoint de lectura por equipo, a definir con Desarrollo general.
 
 ## Preguntas abiertas
 
-1. ¿«Crear equipo» al pie del sidebar? Propongo que sí.
-2. ¿Al entrar se abre el primer equipo? Propongo que sí.
-3. ¿El sidebar recuerda si quedó contraído o expandido? Propongo que sí.
+1. ¿Calendario, Ciclos y Rankings muestran lo descrito arriba? Es mi interpretación.
+2. ¿Agregar y quitar atletas, renombrar y eliminar salen del botón «12 atletas» y del menú ⋯? Propongo que sí.
+3. ¿El ranking es solo por sesiones completadas, o hay otro criterio? Propongo empezar solo con ese.
+4. ¿El sidebar recuerda si quedó contraído o expandido? Propongo que sí.
